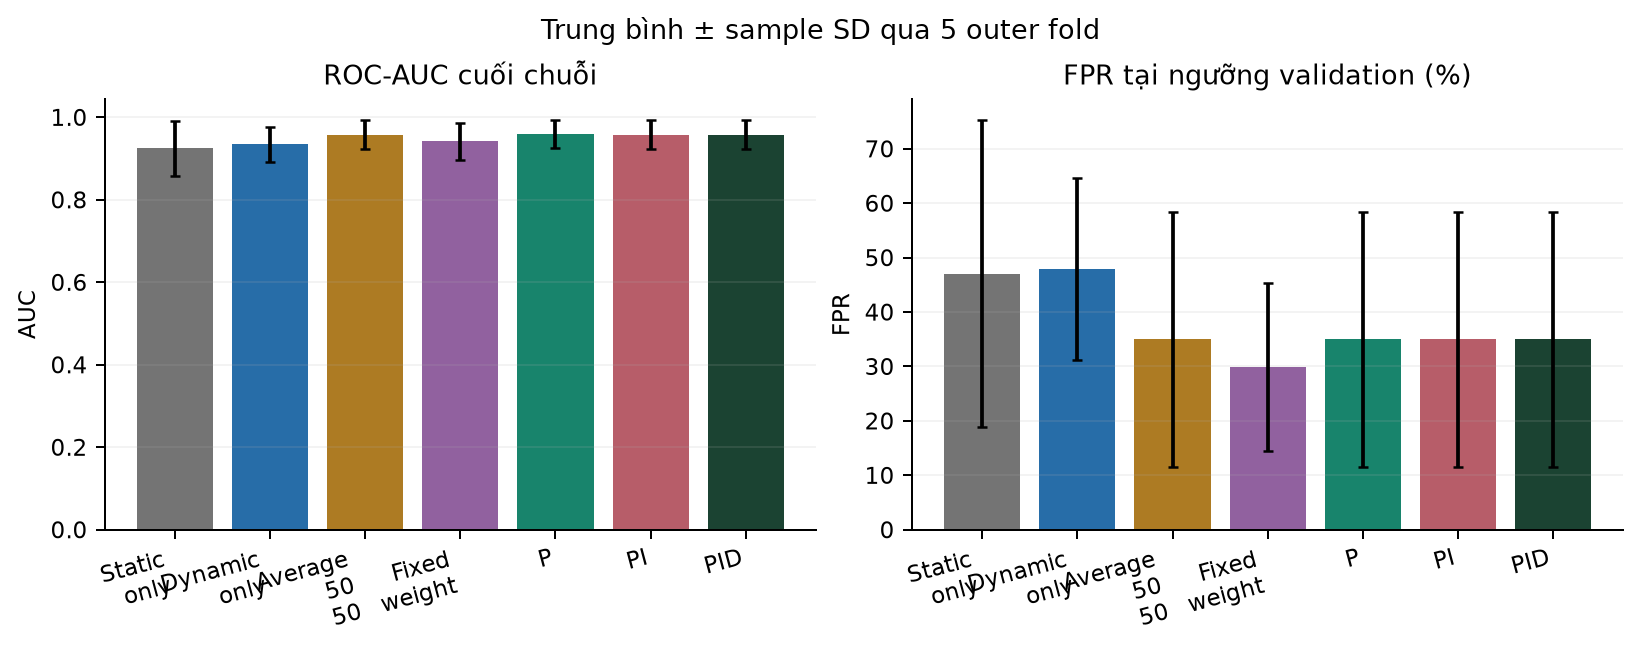
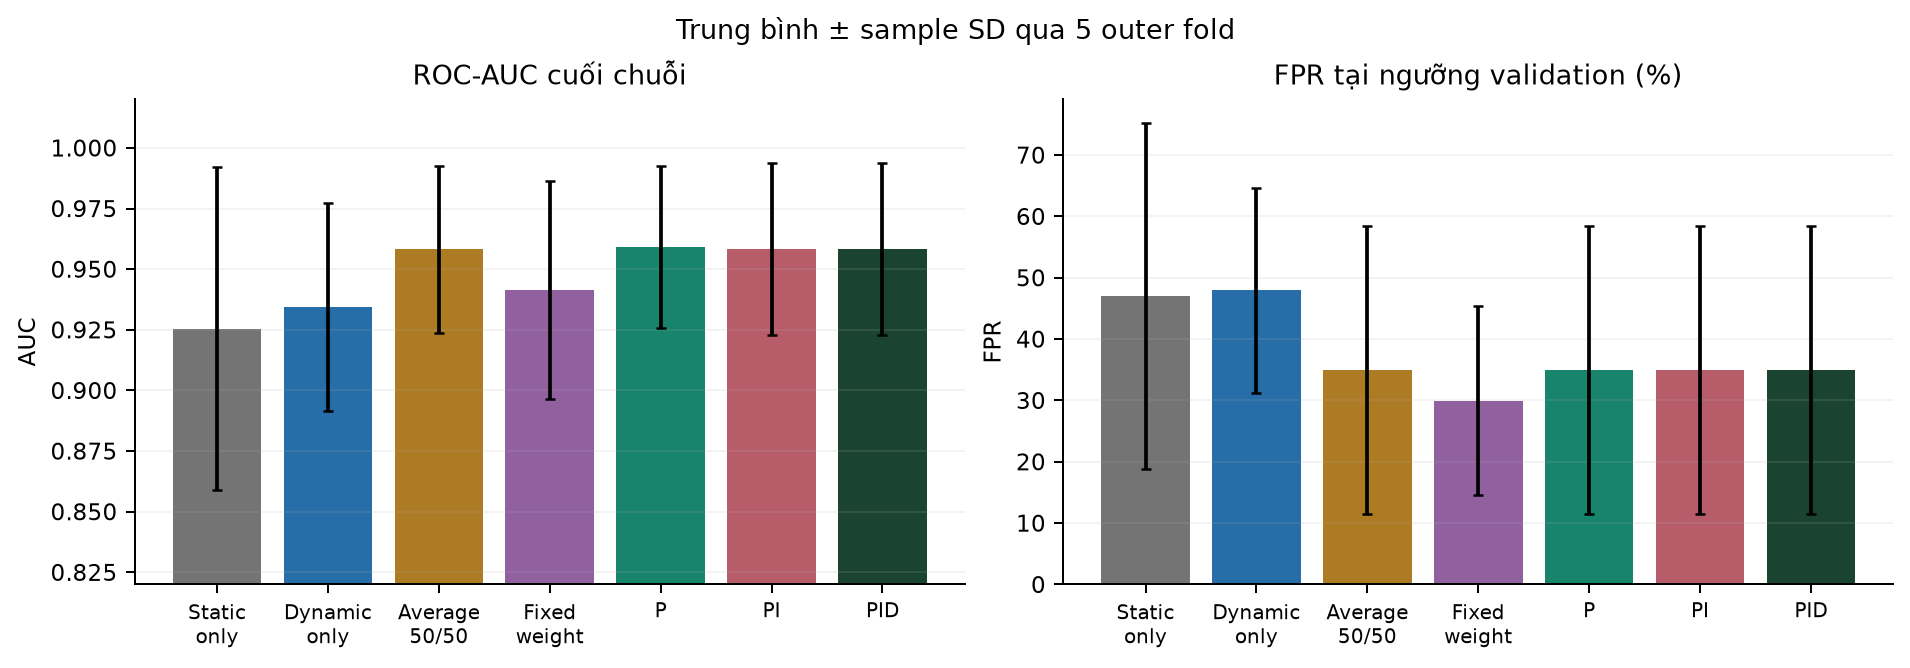
Refresh pilot artifacts from clean committed runner

diff --git a/results/measured_20261020_malbehavd_pid_pilot200/README.md b/results/measured_20261020_malbehavd_pid_pilot200/README.md
@@ -81,7 +81,7 @@ error/dynamics; không nên thay số liệu hay chọn lại split.
 
 ## Tái lập
 
-Code tương ứng ở commit `a1a8643fefdeda339d01daa03bbdeba3e5db26b9`.
+Code tương ứng ở commit `44812ad0c9997e47b418db55975d80c9814b9b77`.
 
 ```bash
 MPLCONFIGDIR=/tmp/mplconfig XDG_CACHE_HOME=/tmp/cache \
